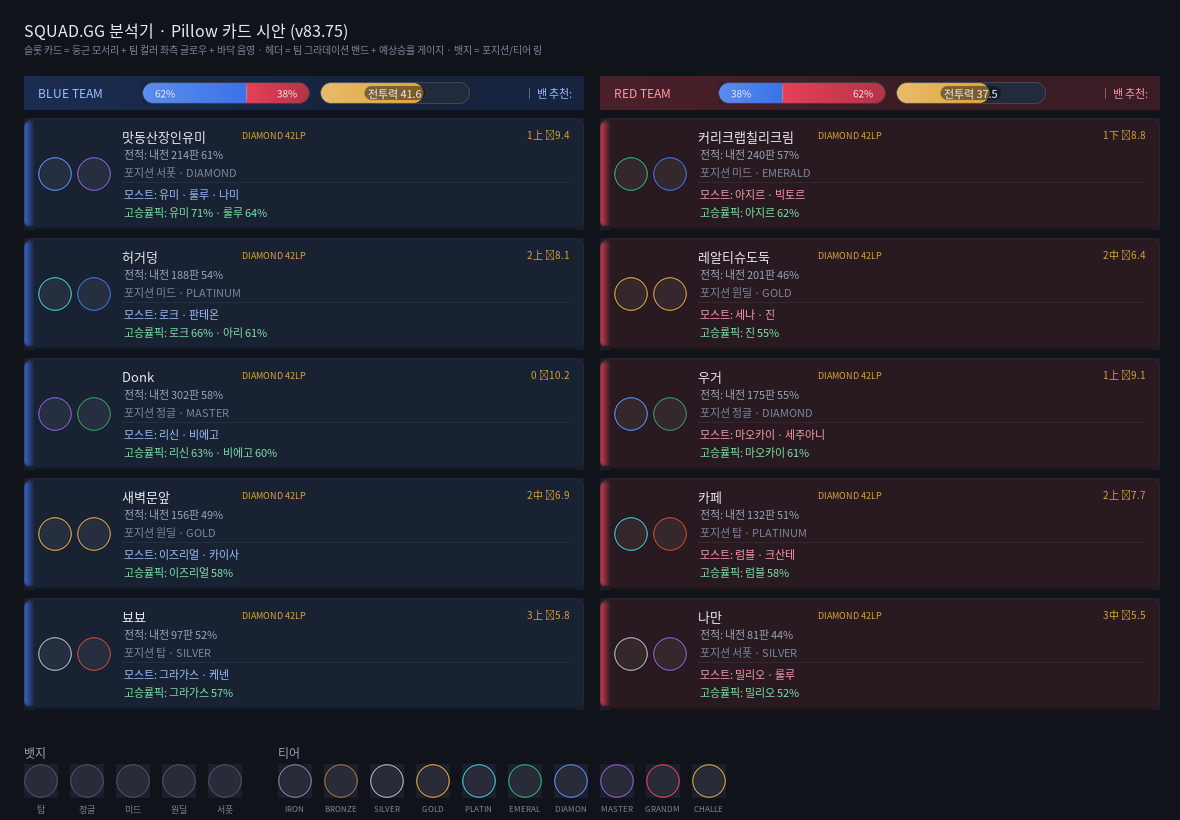
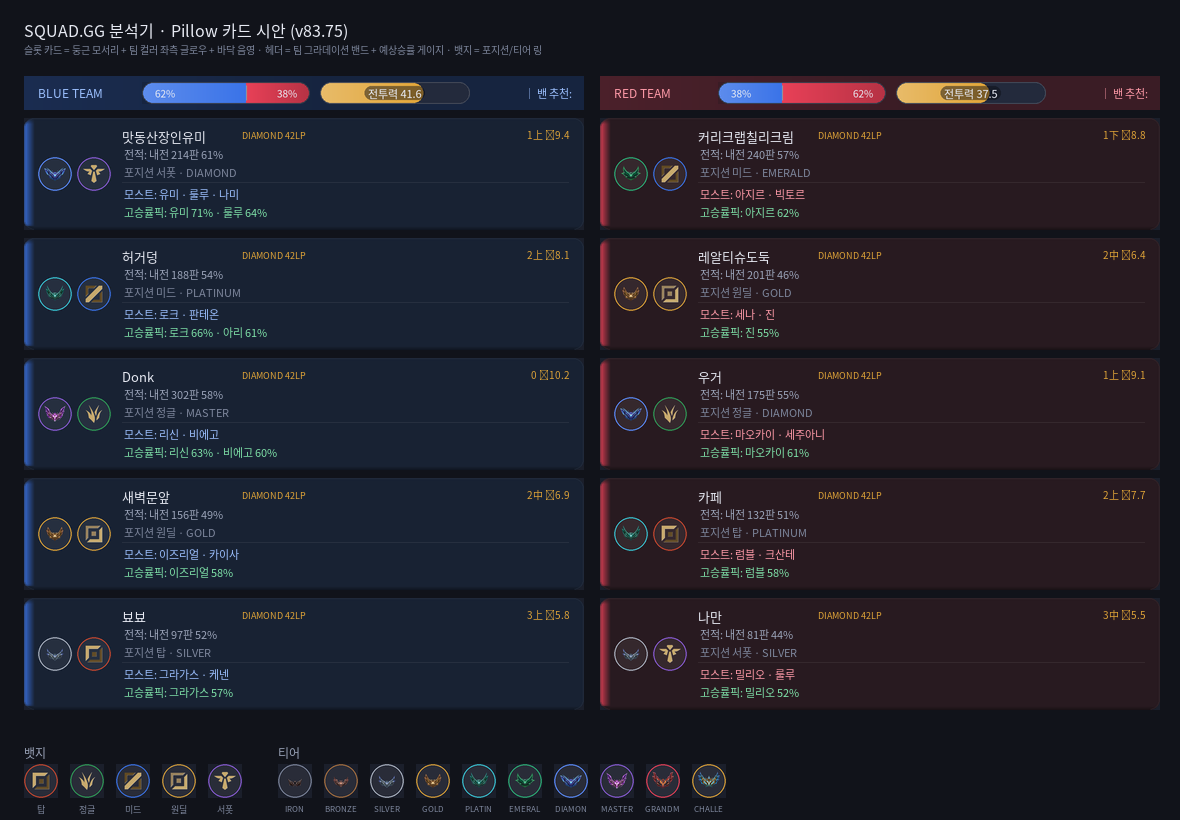
fix(analyzer): 뱃지 아이콘을 원 안으로 클리핑 — 정사각 아이콘 모서리가 링을 파고들던 것
- card_render.badge: 아이콘을 원형 마스크로 잘라 합성(0.64 배율). 136×136 아이콘의 모서리가
  반지름과 같아 그대로 붙이면 뱃지가 네모처럼 보였다.
- 미리보기·PR 이미지는 실제 번들 아이콘(티어/포지션 PNG)을 합성해 다시 뽑음(v83.75).

diff --git a/tests/analyzer_card_preview.py b/tests/analyzer_card_preview.py
@@ -19,6 +19,22 @@ from PIL import Image, ImageDraw  # noqa: E402
 import card_render as CR  # noqa: E402
 import theme  # noqa: E402
 
+DESKTOP = os.path.join(ROOT, "desktop")
+_ICON = {}
+
+
+def icon(name):
+    """번들 아이콘(desktop/{TIER,TOP,…}.png)을 원본 해상도로 — 뱃지에 실제로 합성되는 그림."""
+    if name in _ICON:
+        return _ICON[name]
+    im = None
+    try:
+        im = Image.open(os.path.join(DESKTOP, name + ".png")).convert("RGBA")
+    except Exception:
+        im = None
+    _ICON[name] = im
+    return im
+
 OUT_DEFAULT = os.path.join(os.path.dirname(ROOT), "downloads", "analyzer_pillow_card_preview.png")
 
 TIER_RING = {"IRON": "#7d869c", "BRONZE": "#a9713f", "SILVER": "#aeb6c4", "GOLD": "#e0a437",
@@ -45,7 +61,7 @@ SAMPLE = {
 
 def _badge(kind, tier, bg):
     return CR.badge(34, TIER_RING.get(tier, TIER_RING["UNRANKED"]), CR.mix(bg, "#ffffff", 0.06), bg,
-                    kind=kind)
+                    icon=icon(tier), kind=kind)
 
 
 def draw_slot(sheet, x, y, w, h, team, row, bg, scale=1.0):
@@ -56,11 +72,11 @@ def draw_slot(sheet, x, y, w, h, team, row, bg, scale=1.0):
     sheet.paste(card, (x, y), card)
     d = ImageDraw.Draw(sheet)
     name, jeok, most, op, tier, pos, pw = row
-    # 좌측 액센트(3px Tk 프레임과 같은 자리) 위에 뱃지 두 개
+    # 좌측 액센트(3px Tk 프레임과 같은 자리) 위에 뱃지 두 개 — 실제 번들 아이콘(티어.png·포지션.png)을 합성
     bx = x + 14
-    for kind, col in (("TIER-" + tier, TIER_RING.get(tier, TIER_RING["UNRANKED"])),
-                      ("POS-" + pos, POS_RING.get(pos, POS_RING["NONE"]))):
-        b = CR.badge(34, col, CR.mix(fill, "#ffffff", 0.06), fill, kind=kind)
+    for kind, col, ic in (("TIER-" + tier, TIER_RING.get(tier, TIER_RING["UNRANKED"]), tier),
+                          ("POS-" + pos, POS_RING.get(pos, POS_RING["NONE"]), pos)):
+        b = CR.badge(34, col, CR.mix(fill, "#ffffff", 0.06), fill, icon=icon(ic), kind=kind)
         sheet.paste(b, (bx, y + (h - 34) // 2), b)
         bx += 39
     tx = bx + 6
@@ -113,7 +129,8 @@ def main(out_path=None):
     d.text((24, y), "뱃지", font=CR.font(12), fill=theme.TEXT_SUB)
     x = 24
     for pos in ("TOP", "JUNGLE", "MIDDLE", "BOTTOM", "UTILITY"):
-        b = _badge("POS-" + pos, "UNRANKED", theme.BG_CARD)
+        b = CR.badge(34, POS_RING[pos], CR.mix(theme.BG_CARD, "#ffffff", 0.06), theme.BG_CARD,
+                     icon=icon(pos), kind="POS-" + pos)
         sheet.paste(b, (x, y + 20), b)
         d.text((x + 17, y + 58), POS_KOR[pos], font=CR.font(9), fill=theme.TEXT_MUT, anchor="ma")
         x += 46
@@ -121,7 +138,8 @@ def main(out_path=None):
     d.text((x, y), "티어", font=CR.font(12), fill=theme.TEXT_SUB)
     for tier in ("IRON", "BRONZE", "SILVER", "GOLD", "PLATINUM", "EMERALD", "DIAMOND", "MASTER",
                  "GRANDMASTER", "CHALLENGER"):
-        b = _badge("TIER-" + tier, tier, theme.BG_CARD)
+        b = CR.badge(34, TIER_RING[tier], CR.mix(theme.BG_CARD, "#ffffff", 0.06), theme.BG_CARD,
+                     icon=icon(tier), kind="TIER-" + tier)
         sheet.paste(b, (x, y + 20), b)
         d.text((x + 17, y + 58), tier[:6], font=CR.font(8), fill=theme.TEXT_MUT, anchor="ma")
         x += 46

diff --git a/desktop/card_render.py b/desktop/card_render.py
@@ -335,11 +335,13 @@ def power_gauge(w, h, value, vmax=12.0, fill="#e0a437", bg="#1b1f2b", track="#23
 
 
 # ── 뱃지(포지션·티어) ────────────────────────────────────────────────────────
-def badge(size, ring, fill, bg, icon=None, icon_ratio=0.72, ss=3, kind=""):
+def badge(size, ring, fill, bg, icon=None, icon_ratio=0.64, ss=3, kind=""):
     """포지션·티어 뱃지 — 팀 틴트 원판 + 링(포지션/티어 색) + 가운데 아이콘.
 
     icon : PIL RGBA 아이콘(있으면 가운데 합성). 없으면 링만 있는 원판.
     kind : 캐시 키 구분자(예: 'JUNGLE'·'DIAMOND') — 같은 크기·색이라도 아이콘이 다르면 다른 항목.
+    ⚠ 아이콘은 **원 안으로 잘라** 넣는다 — 정사각 아이콘의 모서리는 반지름과 같아서 그냥 붙이면
+       링을 파고들어 뱃지가 네모처럼 보인다(136×136 아이콘 실측).
     """
     size = int(max(8, size))
     key = ("badge", CARD_VERSION, size, ring, fill, bg, icon_ratio, ss, kind, id(icon) if icon is not None else 0)
@@ -359,7 +361,12 @@ def badge(size, ring, fill, bg, icon=None, icon_ratio=0.72, ss=3, kind=""):
             if ic.mode != "RGBA":
                 ic = ic.convert("RGBA")
             ic.thumbnail((isz, isz), Image.Resampling.LANCZOS)
-            img.alpha_composite(ic, ((S - ic.width) // 2, (S - ic.height) // 2))
+            layer = Image.new("RGBA", (S, S), (0, 0, 0, 0))
+            layer.alpha_composite(ic, ((S - ic.width) // 2, (S - ic.height) // 2))
+            clip = Image.new("L", (S, S), 0)          # 원 밖은 지운다(링 안쪽만)
+            ImageDraw.Draw(clip).ellipse((pad + ss, pad + ss, S - 1 - pad - ss, S - 1 - pad - ss), fill=255)
+            layer.putalpha(Image.composite(layer.getchannel("A"), Image.new("L", (S, S), 0), clip))
+            img.alpha_composite(layer)
         d.ellipse((pad, pad, S - 1 - pad, S - 1 - pad), outline=hex_rgb(ring), width=max(2, ss))
         return img.resize((size, size), Image.Resampling.LANCZOS)
 
